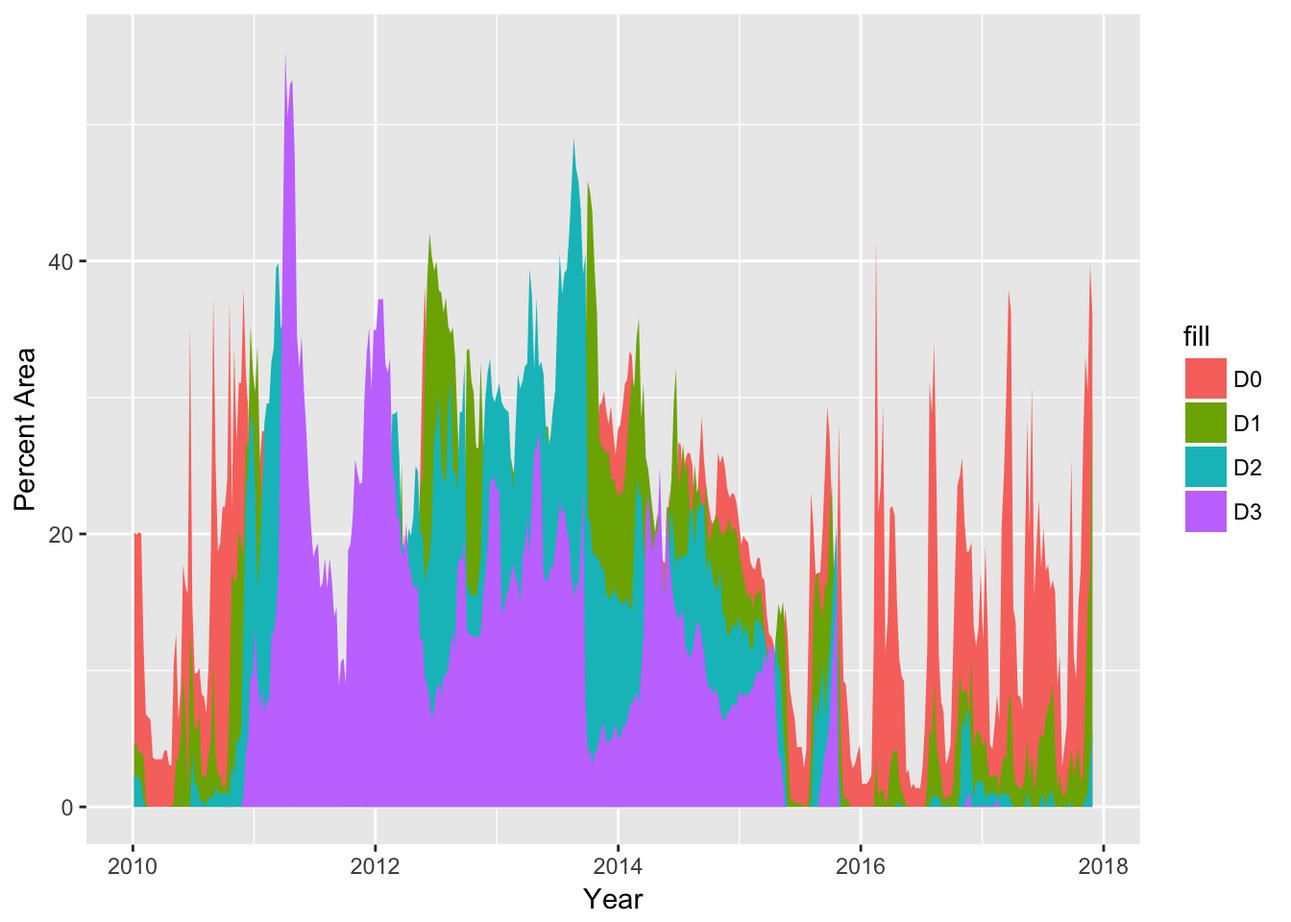
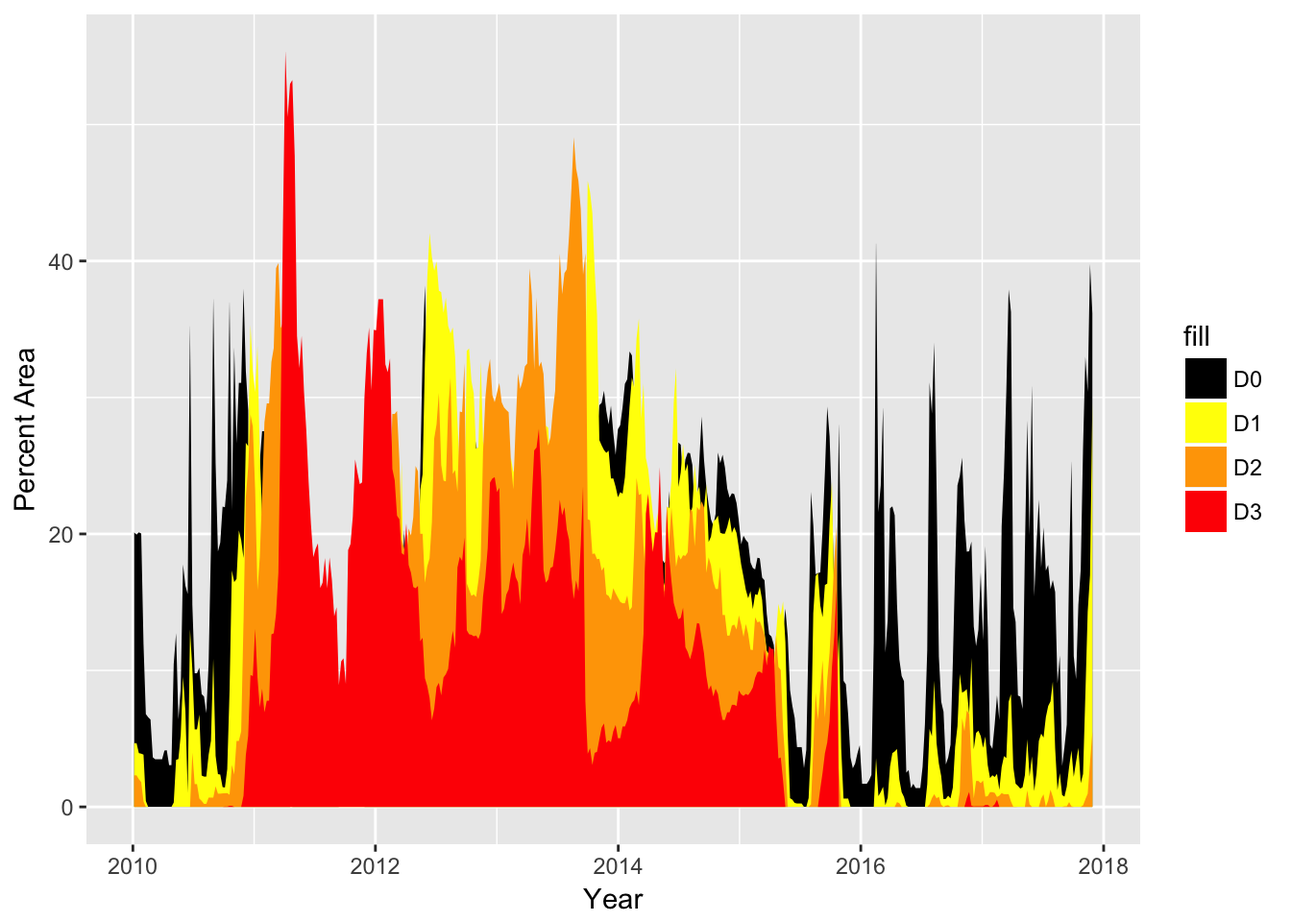
V2.0

Changed region(s): [[0.0938, 0.0938, 0.8438, 0.875], [0.9062, 0.375, 0.9688, 0.5938]]

diff --git a/docs/index.html b/docs/index.html
@@ -312,9 +312,10 @@ div.tocify {
 
 <div id="introduction" class="section level1">
 <h1>Introduction</h1>
-<p>Texas is no stranger to drought: the state has faced several droughts in recent decades, including the most recent and most severe drought that began in 2011.Texas has faced increasing demand for water to meet the needs of its rapidly growing population. Moreover, climate change has led to Texas experiencing an increase in drought events since 2011, which has intensified the need for an effect solution for state’s water situation. (Waterdatafortexas.org, 2017)</p>
-<p>Texas is the second-largest state in the United States and the total area is 268,596 sq. miles (Texasalmanac.com, 2017) so that it is difficult to conceptualize the degree of drought without a visual representation. In particular, spatial and temporal visualization can improve our knowledge on the intensity of the drought’s implication on the area throughout Texas. For visualization, the manner of the exploratory focus should be clearly investigated, where factors causing drought range from “Temperature” to “Precipitation” will be analyzed.</p>
-<p>Analysis on the relationships between factors of drought, and the spread of the drought area, will be investigated.</p>
+<p><strong>Texas is no stranger to drought.</strong> (Waterdatafortexas.org, 2017)</p>
+<p>Texas has experienced several droughts in recent decade, including the most recent and most severe drought that began in 2011.Texas has faced increasing demand for water to meet the needs of its rapidly growing population. (Twdb.texas.gov, 2017) Moreover, climate change has led to Texas experiencing an increase in drought events since 2011, which has intensified the need for an effect solution for state’s water situation. (Epa.gov, 2017)</p>
+<p>Texas is the second-largest state in the United States and the total area is 268,596 sq. miles (Texasalmanac.com, 2017) so that it is difficult to conceptualize the degree of drought without a visual representation. Particularly, spatial and temporal visualization can improve our knowledge on the intensity of the drought’s implication on the area throughout Texas. Hence, the first task for this project is to demonstrate the severity and distribution of drought by visualize U.S. Drought Monitor data.</p>
+<p>In addition, there are two main factors that contribute to dry phenomenon directly, which are temperature and precipitation.(Geochange.er.usgs.gov, 2017) But, which factor did more impact on drought? Simple analysis on the relationships between factors of drought, and the spread of the drought area, will be investigated by visualization and comparision in order to find that factor. <br></p>
 </div>
 <div id="packages-data-and-preprocessing" class="section level1 tabset tabset-fade">
 <h1>Packages, data and preprocessing</h1>
@@ -350,9 +351,16 @@ knitr::opts_chunk$set(cache=TRUE)</code></pre>
 <ol start="2" style="list-style-type: decimal">
 <li>Drought severity classification data</li>
 </ol>
-<p>Downloaded from <a href="http://droughtmonitor.unl.edu" title="United States Drought Monitor">The National Drought Mitigation Center</a>. It is a weekly map that the data is calculated based on measurements of climatic, hydrologic and soil conditions as well as reported impacts and observations from contributors around the country.(USDM, 2017)</p>
+<p>Downloaded from <a href="http://droughtmonitor.unl.edu" title="United States Drought Monitor">The National Drought Mitigation Center</a>. This data updated weekly based on measuring result of meteorological, hydrologic and soil conditions, besides observations and influences reported by donors across the country. (USDM, 2017)</p>
 <p>Permission: <em>The U.S. Drought Monitor is jointly produced by the National Drought Mitigation Center at the University of Nebraska-Lincoln, the United States Department of Agriculture, and the National Oceanic and Atmospheric Administration. Map courtesy of NDMC-UNL</em>.</p>
-<p>Data ranged from January 5 2010 to November 28 2017, including dates and drought classification results. The classification system and its meaning are shown as below. <img src="img/classification.png" alt="optional caption text" /></p>
+<p>These data include dates and drought classification results. The classification system and its meaning are shown as below.</p>
+<div style="width:500px; height=400px">
+<div class="figure">
+<img src="img/classification.png" alt="Drought classification system" />
+<p class="caption">Drought classification system</p>
+</div>
+</div>
+<p>In this project, the used data ranged from January 5 2010 to November 28 2017. According to resource type, they are loaded by read.csv function.</p>
 <pre class="r"><code>#  us monitor data loading
 tx_7y &lt;- read.csv(&#39;data/tx_7y.csv&#39;)
 tx_7y_1 &lt;- read.csv(&#39;data/tx_7y.csv&#39;)
@@ -362,7 +370,7 @@ tx_1031 &lt;- read.csv(&#39;data/tx_1031.csv&#39;)
 datatable(data=tx_7y_1[,c(-2,-3,-9,-10,-11)],style = &#39;default&#39;,options = list(pageLength = 5,autoWidth = TRUE))</code></pre>
 <div id="htmlwidget-2606b4dd5916098ae6f5" style="width:100%;height:auto;" class="datatables html-widget"></div>
 <script type="application/json" data-for="htmlwidget-2606b4dd5916098ae6f5">{"x":{"filter":"none","data":[["1","2","3","4","5","6","7","8","9","10","11","12","13","14","15","16","17","18","19","20","21","22","23","24","25","26","27","28","29","30","31","32","33","34","35","36","37","38","39","40","41","42","43","44","45","46","47","48","49","50","51","52","53","54","55","56","57","58","59","60","61","62","63","64","65","66","67","68","69","70","71","72","73","74","75","76","77","78","79","80","81","82","83","84","85","86","87","88","89","90","91","92","93","94","95","96","97","98","99","100","101","102","103","104","105","106","107","108","109","110","111","112","113","114","115","116","117","118","119","120","121","122","123","124","125","126","127","128","129","130","131","132","133","134","135","136","137","138","139","140","141","142","143","144","145","146","147","148","149","150","151","152","153","154","155","156","157","158","159","160","161","162","163","164","165","166","167","168","169","170","171","172","173","174","175","176","177","178","179","180","181","182","183","184","185","186","187","188","189","190","191","192","193","194","195","196","197","198","199","200","201","202","203","204","205","206","207","208","209","210","211","212","213","214","215","216","217","218","219","220","221","222","223","224","225","226","227","228","229","230","231","232","233","234","235","236","237","238","239","240","241","242","243","244","245","246","247","248","249","250","251","252","253","254","255","256","257","258","259","260","261","262","263","264","265","266","267","268","269","270","271","272","273","274","275","276","277","278","279","280","281","282","283","284","285","286","287","288","289","290","291","292","293","294","295","296","297","298","299","300","301","302","303","304","305","306","307","308","309","310","311","312","313","314","315","316","317","318","319","320","321","322","323","324","325","326","327","328","329","330","331","332","333","334","335","336","337","338","339","340","341","342","343","344","345","346","347","348","349","350","351","352","353","354","355","356","357","358","359","360","361","362","363","364","365","366","367","368","369","370","371","372","373","374","375","376","377","378","379","380","381","382","383","384","385","386","387","388","389","390","391","392","393","394","395","396","397","398","399","400","401","402","403","404","405","406","407","408","409","410","411","412","413","414"],[20171128,20171121,20171114,20171107,20171031,20171024,20171017,20171010,20171003,20170926,20170919,20170912,20170905,20170829,20170822,20170815,20170808,20170801,20170725,20170718,20170711,20170704,20170627,20170620,20170613,20170606,20170530,20170523,20170516,20170509,20170502,20170425,20170418,20170411,20170404,20170328,20170321,20170314,20170307,20170228,20170221,20170214,20170207,20170131,20170124,20170117,20170110,20170103,20161227,20161220,20161213,20161206,20161129,20161122,20161115,20161108,20161101,20161025,20161018,20161011,20161004,20160927,20160920,20160913,20160906,20160830,20160823,20160816,20160809,20160802,20160726,20160719,20160712,20160705,20160628,20160621,20160614,20160607,20160531,20160524,20160517,20160510,20160503,20160426,20160419,20160412,20160405,20160329,20160322,20160315,20160308,20160301,20160223,20160216,20160209,20160202,20160126,20160119,20160112,20160105,20151229,20151222,20151215,20151208,20151201,20151124,20151117,20151110,20151103,20151027,20151020,20151013,20151006,20150929,20150922,20150915,20150908,20150901,20150825,20150818,20150811,20150804,20150728,20150721,20150714,20150707,20150630,20150623,20150616,20150609,20150602,20150526,20150519,20150512,20150505,20150428,20150421,20150414,20150407,20150331,20150324,20150317,20150310,20150303,20150224,20150217,20150210,20150203,20150127,20150120,20150113,20150106,20141230,20141223,20141216,20141209,20141202,20141125,20141118,20141111,20141104,20141028,20141021,20141014,20141007,20140930,20140923,20140916,20140909,20140902,20140826,20140819,20140812,20140805,20140729,20140722,20140715,20140708,20140701,20140624,20140617,20140610,20140603,20140527,20140520,20140513,20140506,20140429,20140422,20140415,20140408,20140401,20140325,20140318,20140311,20140304,20140225,20140218,20140211,20140204,20140128,20140121,20140114,20140107,20131231,20131224,20131217,20131210,20131203,20131126,20131119,20131112,20131105,20131029,20131022,20131015,20131008,20131001,20130924,20130917,20130910,20130903,20130827,20130820,20130813,20130806,20130730,20130723,20130716,20130709,20130702,20130625,20130618,20130611,20130604,20130528,20130521,20130514,20130507,20130430,20130423,20130416,20130409,20130402,20130326,20130319,20130312,20130305,20130226,20130219,20130212,20130205,20130129,20130122,20130115,20130108,20130101,20121225,20121218,20121211,20121204,20121127,20121120,20121113,20121106,20121030,20121023,20121016,20121009,20121002,20120925,20120918,20120911,20120904,20120828,20120821,20120814,20120807,20120731,20120724,20120717,20120710,20120703,20120626,20120619,20120612,20120605,20120529,20120522,20120515,20120508,20120501,20120424,20120417,20120410,20120403,20120327,20120320,20120313,20120306,20120228,20120221,20120214,20120207,20120131,20120124,20120117,20120110,20120103,20111227,20111220,20111213,20111206,20111129,20111122,20111115,20111108,20111101,20111025,20111018,20111011,20111004,20110927,20110920,20110913,20110906,20110830,20110823,20110816,20110809,20110802,20110726,20110719,20110712,20110705,20110628,20110621,20110614,20110607,20110531,20110524,20110517,20110510,20110503,20110426,20110419,20110412,20110405,20110329,20110322,20110315,20110308,20110301,20110222,20110215,20110208,20110201,20110125,20110118,20110111,20110104,20101228,20101221,20101214,20101207,20101130,20101123,20101116,20101109,20101102,20101026,20101019,20101012,20101005,20100928,20100921,20100914,20100907,20100831,20100824,20100817,20100810,20100803,20100727,20100720,20100713,20100706,20100629,20100622,20100615,20100608,20100601,20100525,20100518,20100511,20100504,20100427,20100420,20100413,20100406,20100330,20100323,20100316,20100309,20100302,20100223,20100216,20100209,20100202,20100126,20100119,20100112,20100105,null],[36.15,39.75,30.4,32.97,26.3,17.37,14.85,9.35,11.04,25.29,17.46,6.03,4.36,2.99,11.09,9.05,15.74,16.62,15.96,17.73,17.31,20.48,17.54,22.5,19.31,15.41,30.8,19.89,28.27,18.82,7.18,8.08,8.16,13.55,14.59,36.27,37.91,30.36,24.43,20.57,6.36,8.17,6.04,4.25,4.57,13.2,19.1,12.2,17.18,12.98,11.78,13.23,19.44,18.73,18.7,20.98,25.58,24.25,23.56,17.53,10.55,4.55,3.62,3.11,6.98,7.71,11.01,23.45,34,28.82,31.08,11.46,6.03,2.93,1.38,1.38,1.38,1.69,1.38,2.7,2.51,9.21,9.59,10.81,14.83,21.37,22.02,21.88,13.67,11.3,29.21,23.56,21.59,41.27,11.99,2.34,1.95,1.69,1.69,1.69,4.52,3.93,3.18,2.83,3.62,6.74,8.98,9.24,17.25,27.99,14.97,16.5,21.87,27.17,29.33,24.52,20.3,17.18,17.13,17.05,20.65,23.06,12.9,4.18,2.84,4.38,4.38,4.38,6.52,7.4,8.55,12.5,14.52,12.83,10.78,10.4,9.96,11.87,12.48,12.65,14.14,16.61,16.8,18.21,18.26,17.4,17.51,17.91,19.36,19.56,19.87,19.24,20.94,22.26,22.92,22.98,22.66,23.32,24.88,25.8,25.19,25.96,21.47,20.62,21.07,22.14,23.45,25.46,28.6,25.36,21.92,21.54,25.06,25.92,25.95,25.46,23.91,26.54,26.7,19.6,18.6,19.56,23.14,18.12,17.87,18.13,11.54,15.65,17.7,16.69,18.93,17.8,17.84,20.56,21.76,23.9,24.74,29.84,33.08,33.37,31.33,31,29.28,27.97,27.68,25.79,27.4,29.39,28.03,29.02,30.49,29.61,29.43,27.33,24.81,25.65,22.93,22.43,13.78,8.4,8.75,8.77,9.3,8.26,9.28,9.9,9.48,6.85,5.32,7.62,11.64,11.01,10.42,10.39,7.96,8.24,7.46,6.61,6.42,6.56,6.33,7.41,10.12,10.39,11.34,11.34,11.68,12.56,13.6,14.41,13.54,13.23,13.46,16.51,16.51,11.92,9.96,7.15,7.15,6.37,11.64,13.32,15.51,19.87,24.65,26.78,24.34,20.45,18.12,17.34,12.13,12.6,16.23,17.29,17.3,14.65,10.2,13.4,16.96,17.29,16.66,18.29,20.59,22.42,22.51,21.97,31.97,38.19,33.08,24.7,16.27,16.32,18.61,17.99,17.99,18.06,20.25,8.61,8.51,7.38,8.74,8.74,5.99,5.02,4.41,4.4,4.4,3.97,2.15,2.15,2.13,0.17,0.17,0,0,0,0,0,0,0,0,0,0,0,0,0.07,0.08,0.07,0.21,0.45,0.45,0.15,1.04,2.57,1.86,1.61,0.96,1.5,1.5,1.68,1.93,2.99,2.22,1.14,0,0,2.06,2.01,5.13,6.25,13.01,13.7,22.1,25.18,29.37,27.13,27.53,27.53,25.3,20.71,19.77,22.68,12.71,29.1,31.91,37.94,31.07,31.07,26.63,33.62,21.71,36.97,23.94,21.96,22,19.37,18.71,25.16,37.2,18.97,10.52,6.87,8.09,8.26,10.2,9.79,9.79,14.79,35.22,15.6,16.21,17.75,8.64,6.41,12.72,10.49,3.06,3.06,4.15,4.13,3.49,3.49,3.49,3.49,3.63,6.4,6.57,6.8,11.91,20.03,20.12,19.95,20.11,null],[29.61,16.98,14.3,8.24,2.41,1.74,4.32,3.31,2.2,4.13,2.92,1.48,0.75,0.87,2.47,1.23,4.29,9.17,7.73,7.39,6.57,5.08,5.37,4.84,2.47,1.16,3.7,2.22,4.95,2.33,1.44,1.34,1.54,1.7,2.91,8.26,7.7,3.58,3.72,2.92,1.25,2.42,2.19,2.32,2.11,3.07,5.15,4.33,5.19,5.58,5.42,4.22,10.92,6.82,8.63,8.47,8.37,9.74,5.91,4.4,1.41,0.62,0.82,0.59,0.57,2.26,3.17,4.68,9.24,5.18,5.71,1.66,0,0,0,0,0,0,0,0,0.09,0.73,1.08,2.01,4.24,4.06,3.94,2.96,0.68,0.12,1.47,1.09,0.79,3.57,0,0,0,0,0,0,0,0,0,0,0,0.61,0.61,0.61,4.27,12.82,8.4,15.14,23.77,20.77,16.36,16.26,13.9,14.77,17.15,16.91,14.21,4.42,0.65,0,0,0.25,0.25,0.25,0.29,0.53,0.64,5.4,12.08,15.06,14.04,14.88,12.63,10.6,10.98,11.17,11.44,12.82,15.16,16.13,15.53,15.58,14.49,15.81,15.29,15.9,16.85,17.75,18.95,20.07,20.5,20.07,21.23,20.52,20.02,20.02,20.09,21.34,21.06,20.92,19.8,19.41,23.63,21.83,21.36,23.47,23.03,25.05,21.97,21.36,25.14,24.6,26.56,24.51,23.44,32.13,29.65,23.99,21.9,22,16.21,16.95,18.22,21.56,20.12,21.53,23.12,24.75,25.58,31.02,28.41,35.78,34.33,30.72,31.46,29.34,26.74,24.15,22.95,23.06,22.69,23.46,24.07,24.06,26.1,25.94,26.15,26.49,26.88,36.1,39.27,43.52,45.06,45.87,31.06,22.24,21.52,22.46,21.76,22.05,21.98,20.69,22.34,25.12,23.38,16.58,18.46,23.42,26.34,24.73,27.79,27.93,22.61,21.85,19.31,18.26,22.18,19.01,20.09,22.77,25.24,25.5,22.76,20.67,25.26,24.52,25.58,24.62,24.95,23.52,23.52,17.93,21.61,24.18,24.18,22.68,22.93,26.05,26.75,32.6,26.35,26.24,30.3,31.21,33.59,33.42,21.32,24.3,24.4,28.2,32.94,35.13,34.69,35.25,37.32,36.19,37.72,37.82,39.97,39.29,40.29,42.04,38.72,32.61,24.36,23.24,17.77,16.89,16.14,17.12,13.06,12.31,11.71,25.19,17.4,15.58,17.73,17.73,12.63,12.59,9.88,12.48,12.48,12.83,13.02,13.02,13.05,9.62,9.5,5.77,2.56,2.43,1.92,1.82,1.66,1.4,0.85,0.84,0.84,0.97,0.83,0.92,0.92,0.91,1.36,1.5,0.81,2.97,3.17,1.65,1.34,1.19,1.19,1.76,2.48,4.17,3.81,4.61,3.9,4.87,5.03,8.48,11.51,11.48,16.33,27.99,26.77,24.35,26.57,24.5,20.76,19.8,17.89,21.44,25.8,33.76,30.38,31.98,35.28,26.43,26.68,18.23,19.55,20.26,16.71,16.47,17.32,8.52,2.76,1.42,1.45,2.37,2.4,3.74,10.83,4.84,3.82,2.22,2.22,2.3,6.76,5.68,5.68,10.05,13,1.02,7.04,9.54,5.26,3.51,3.44,0.32,0,0,0,0,0,0,0,0,0,0,0,0.43,3.83,3.9,3.94,4.67,4.67,null],[5.5,3.25,0.97,0.56,0.11,0,0,0,0,0.04,0.35,0.04,0.04,0,0,0,0,0.73,1.26,0.46,0,0.92,0.61,0,0,0,0,0.19,1.2,0,0,0,0,0.01,0.01,0.4,0.93,0.93,0.93,1.01,0.82,0.73,1.03,1.08,1.08,0.79,0.75,1.93,1.74,1.9,1.9,0.62,3.19,6.82,7.06,5.55,6.5,1.1,0,0,0,0,0.12,0.09,0,0.16,0.74,0.63,0.93,0.64,0.18,0,0,0,0,0,0,0,0,0,0,0,0,0.27,0.35,0,0,0,0,0,0,0,0,0,0,0,0,0,0,0,0,0,0,0,0,0,0,0,0,2.85,20.48,17.99,14.49,11.29,9.33,6.54,10.73,8.67,6.37,8.37,4.28,0.18,0,0,0,0,0,0,0,0,0,0,3.29,5.76,10.03,10.26,12.58,9.74,9.93,10.34,11.25,12.63,13.14,13.59,13.52,13.89,11.49,11.52,12.68,13.4,12.46,13.35,14.03,12.99,13.36,13.27,12.55,12.55,14.06,14.06,17.58,15.96,15.97,16.53,17.71,18.28,17.15,21.95,22.39,21.73,21.98,19.08,21.65,21.85,18.66,18.39,18.44,18.12,18.48,17.59,19.8,21.94,19.3,16.35,15.76,16.22,18.96,15.05,15.9,15.16,12.86,14.7,16.87,19.12,22.94,22.86,24.1,18.94,14.64,14.4,15.49,14.92,14.92,15.02,15.33,15.65,16.02,15.13,15.46,15.57,17.57,17.31,18.18,18.15,18.57,18.53,21,21.08,40.53,38.99,43.81,45.89,46.79,49.07,45.28,41.89,39.39,39.11,37.56,40.52,36.04,30.48,29.05,27.09,26.47,27.89,31.72,32.62,32.24,37.31,31.99,37.48,39.44,32.49,32.28,31.22,30.63,31.76,27.83,23.26,25.22,28.92,29.08,29.27,29.65,31.06,30.35,29.65,30.18,32.82,31.87,29.97,26.03,18.07,16.57,15.38,15.57,15.46,15.92,16.38,32.51,28.92,28.97,23.07,24.68,24.4,31.43,29.1,23.85,23.91,25.06,30.32,28.02,27,20.85,18.21,17.62,16.42,20.01,20.01,24.59,24.98,21.22,19.89,20.4,18.26,18.99,19.59,25.48,29.01,28.79,28.79,23.18,22.5,20.99,20.13,20.13,20.22,17.48,17.48,15.45,13.79,13.77,11.56,10.68,8.8,7.77,7.76,7.47,6.72,7.19,2.17,2.52,2.94,2.42,3.33,3.97,4.59,5.58,3.71,6.95,5.23,4.59,4.82,4.17,3.9,3.21,6.2,8.63,10.81,13.48,12.39,11.83,20.25,24.55,23.56,25.86,26.36,35.47,35.08,39.85,39.48,33.62,32.61,29.56,29.57,28.18,22.9,18.32,15.88,23.25,27.87,28.74,24.89,22.68,13.47,5.54,4.83,4.83,2.37,3.07,0.89,1.01,1,0.99,0.97,0.97,1.51,0.68,0.68,0.68,0.22,0.22,0.44,0.61,1.67,1.67,3.96,0,0,0,0,0,0,0,0,0,0,0,0,0,0,0,0,0,0,0,0,0.4,1.82,2.03,2.31,2.31,null],[0,0,0,0,0,0,0,0,0,0,0,0,0,0,0,0,0,0,0,0,0,0,0,0,0,0,0,0,0,0,0,0,0,0,0,0,0,0,0,0,0,0.53,0.19,0.01,0.01,0.15,0.14,0.04,0.04,0.04,0.04,0.03,0.08,1.09,0.63,0,0,0,0,0,0,0,0,0,0,0,0,0,0,0,0,0,0,0,0,0,0,0,0,0,0,0,0,0,0,0,0,0,0,0,0,0,0,0,0,0,0,0,0,0,0,0,0,0,0,0,0,0,0,0,15.87,12.47,10.17,6.27,4.72,3.92,2.5,1.32,0,0,0,0,0,0,0,0,0,0,0,0,0,0,0,1.93,3.62,3.55,6.8,11.57,11.58,11.79,10.35,11.51,9.78,9.92,9.88,9.46,8.75,8.43,8.19,8.28,8.13,8.25,8.53,7.39,7.48,7.48,6.93,6.93,6.37,6.37,7.18,8.27,8.66,8.09,8.91,8.57,9.6,11.25,12.33,13.42,13.47,12.4,11.43,10.82,11.35,11.7,14.59,13.85,13.75,14.33,14.94,16.55,18.34,22.05,15.3,19.15,24.89,20.11,20.12,18.68,20.52,22.94,21.49,12.66,9.96,7.45,8.52,7.82,7.62,7.24,6.35,5.89,5.89,5.03,5.03,6,5.54,4.74,4.88,4.7,6.11,5.82,4.94,4.03,3.96,3.07,4.3,3.89,7.74,23.43,19.17,15.8,16.6,15.22,16.81,19.56,20.32,21.96,21.37,22.5,20.43,18.83,17.6,17.51,16.65,16.43,17.36,24.04,27.69,26.33,26.12,22.62,18.34,21.14,19.2,18.43,14.84,16.45,16.85,17.91,17.04,15.93,15.55,14.51,14.13,23.38,23.07,24.16,24.06,23.77,18.95,16.87,15.4,12.79,12.3,12.56,12.5,12.61,12.65,12.94,19.72,18.02,18.33,17.55,11.66,12.9,11.77,10.11,9.72,9.48,8.17,9.09,8.77,7.2,6.34,7.99,8.86,9.43,12.39,12.14,16.19,16.02,16.11,17.16,17.73,20.76,18.46,18.59,21.08,21.34,23.93,24.76,32.86,31.85,32.43,37.2,37.2,37.2,34.92,34.96,30.51,35.13,33.26,29.99,23.78,23.65,24.49,25.46,21.26,19.26,18.83,9,10.89,10.66,8.92,14.63,13.96,16.63,18.27,16.01,18.23,16.43,16.04,19.31,18.91,18.3,20.7,23.79,27.58,30.44,34.51,32.15,34.51,47.77,53.26,52.97,50.54,55.33,43.07,28.98,17.13,14.16,12.72,12.64,7.78,7.78,6.93,8.66,7.3,9.48,13.04,9.59,9.66,5.2,3.8,0.81,0,0,0,0,0.08,0.08,0.02,0.02,0,0,0,0,0,0,0,0,0,0,0,0,0,0,0,0,0,0,0,0,0,0,0,0,0,0,0,0,0,0,0,0,0,0,0,0,0,0,0,null],[0,0,0,0,0,0,0,0,0,0,0,0,0,0,0,0,0,0,0,0,0,0,0,0,0,0,0,0,0,0,0,0,0,0,0,0,0,0,0,0,0,0,0,0,0,0,0,0,0,0,0,0,0,0,0,0,0,0,0,0,0,0,0,0,0,0,0,0,0,0,0,0,0,0,0,0,0,0,0,0,0,0,0,0,0,0,0,0,0,0,0,0,0,0,0,0,0,0,0,0,0,0,0,0,0,0,0,0,0,0,5.52,1.42,0,0,0,0,0,0,0,0,0,0,0,0,0,0,0,0,0,0,0,0,0,0,1.86,2.02,2.55,3.34,3.87,3.31,3.31,2.97,2.97,3.37,4.46,4.46,4.46,2.82,3.05,3.05,2.9,2.47,3.17,2.97,2.57,2.57,2.57,2.57,3.45,3.45,3.62,3.62,2.88,2.88,2.88,2.69,1.79,1.79,1.54,2.76,2.76,2.76,2.62,2.85,2.94,3.28,3.77,4.51,4.76,4.95,6.56,6.68,8.66,10.76,25.05,20.73,21.28,17.75,12.54,10.31,7.08,4.42,3.48,1.41,1.49,1.07,0.93,0.71,0.71,0.71,0.79,0.79,0.79,0.79,0.79,0.79,1.17,0.96,0.96,0.96,0.78,0.43,0.49,0.23,0.23,0.12,0.12,0.12,0.28,1.65,2.62,2.94,2.74,2.58,3.84,6.24,5.65,6.35,12.07,12.2,12.2,11.27,11.83,14.85,16.47,16.02,18.02,12.05,12.88,10.09,11.93,12.19,11.56,11.81,10.54,9.88,8.57,7.41,5.17,7.89,7.79,7.79,6.57,6.72,6.72,11.41,11.96,10.32,9.89,8.45,8.45,7.63,7.66,6.12,4.68,3.67,3.2,3.2,3.23,3.23,5.18,4.88,4.8,3.57,3.21,1.18,0.82,0.75,0.75,0.78,0,0,0,0,0,0.15,0.38,0.73,1.15,1.4,7.38,8.7,9.31,9.64,13.42,14.05,17.92,17.92,20.54,20.64,14.75,13.93,20.41,23.12,27.36,25.27,25.27,25.27,32.4,32.36,38.84,41.29,43.29,52.67,62.97,65.11,65.82,64.95,69.61,72.61,73.13,87.99,85.75,85.43,87.83,81.06,81.08,77.8,74.5,78.26,73.49,75.23,75.15,71.66,71.3,72.32,70.61,64.78,57.83,50.65,43.97,47.87,47.55,25.96,17.16,14.99,10.03,4.81,0,0,0,0,0,0,0,0,0,0,0,0,0,0,0,0,0,0,0,0,0,0,0,0,0,0,0,0,0,0,0,0,0,0,0,0,0,0,0,0,0,0,0,0,0,0,0,0,0,0,0,0,0,0,0,0,0,0,0,0,0,0,0,0,0,null]],"container":"<table class=\"display\">\n  <thead>\n    <tr>\n      <th> <\/th>\n      <th>ReleaseDate<\/th>\n      <th>D0<\/th>\n      <th>D1<\/th>\n      <th>D2<\/th>\n      <th>D3<\/th>\n      <th>D4<\/th>\n    <\/tr>\n  <\/thead>\n<\/table>","options":{"pageLength":5,"autoWidth":true,"columnDefs":[{"className":"dt-right","targets":[1,2,3,4,5,6]},{"orderable":false,"targets":0}],"order":[],"orderClasses":false,"lengthMenu":[5,10,25,50,100]},"selection":{"mode":"multiple","selected":null,"target":"row"}},"evals":[],"jsHooks":[]}</script>
-<p>Unluckily, the drought index for each county by state can be downloaded just in single day, therefore, I chose the data released in October 31 as sample.</p>
+<p>Unluckily, the drought index for each county by state can be downloaded just in single day, therefore, I chose the data released in October 31 as visulatiztion sample .</p>
 <ol start="3" style="list-style-type: decimal">
 <li>Time-series data</li>
 </ol>
@@ -413,14 +421,16 @@ D1_loglat &lt;- spTransform(D1, CRS(&quot;+proj=longlat +datum=WGS84&quot;))
 D2 &lt;- shp[shp@data$D2!=0,]
 D2_loglat &lt;- spTransform(D2, CRS(&quot;+proj=longlat +datum=WGS84&quot;))</code></pre>
 <ul>
-<li><p>Time-series data transformation</p>
-<ul>
-<li>Fahreheit to celsius <em>weathermetrics package</em></li>
-</ul></li>
+<li>Time-series data transformation</li>
 </ul>
+<ol style="list-style-type: decimal">
+<li>Fahreheit to celsius with <em>weathermetrics package</em></li>
+</ol>
 <pre class="r"><code># Temperature format transfromation
 total$mean.temp &lt;- fahrenheit.to.celsius(total$mean.temp,2)</code></pre>
-<pre><code>+ Convert table into xts format</code></pre>
+<ol start="2" style="list-style-type: decimal">
+<li>Convert table into XTS format with <em>zoo package</em></li>
+</ol>
 <pre class="r"><code>total[,c(&quot;temp_10&quot;)] &lt;- total$mean.temp/10
 total$X &lt;- as.Date(as.yearmon(total$X))
 time &lt;- xts(total[, c(2,3)], order.by=total$X)
@@ -436,7 +446,7 @@ total$precip &lt;- total$precip*2.54</code></pre>
 <h3>Drought Percent area in Texas from 2010 to 2017</h3>
 <p>By watching the chart of time-series U.S. Drought Monitor data for 7 years, we can find that the area of drought percent area was large since 2011 to 2016, however, the drought situation has been relieving during 2017.</p>
 <pre class="r"><code># chart of one-year drought percent area
-ggplot(tx_7y, aes(x=ReleaseDate,D0,fill=&quot;D0&quot;),color=&#39;black&#39;) + geom_area() + geom_area(aes(x = ReleaseDate,D1,fill=&quot;D1&quot;)) + geom_area(aes(x = ReleaseDate, D2,fill=&quot;D2&quot;)) + geom_area(aes(x = ReleaseDate, D3, fill=&quot;D3&quot;))  + xlab(&quot;Year&quot;) + ylab(&quot;Percent Area&quot;) </code></pre>
+ggplot(tx_7y, aes(x=ReleaseDate,D0,fill=&quot;D0&quot;),color=&#39;black&#39;) + geom_area() + geom_area(aes(x = ReleaseDate,D1,fill=&quot;D1&quot;)) + geom_area(aes(x = ReleaseDate, D2,fill=&quot;D2&quot;)) + geom_area(aes(x = ReleaseDate, D3, fill=&quot;D3&quot;))  + xlab(&quot;Year&quot;) + ylab(&quot;Percent Area&quot;) +scale_fill_manual(values=c(&quot;black&quot;,&quot;yellow&quot;,&quot;orange&quot;,&quot;red&quot;))</code></pre>
 <p><img src="index_files/figure-html/one-year%20percent%20area-1.png" width="672" /></p>
 </div>
 <div id="sptial-distribution-of-drought-in-texas-in-october-31-2017" class="section level3">
@@ -459,7 +469,7 @@ ggplot2 &lt;- g2+ theme(legend.position = &quot;right&quot;)+ theme(axis.ticks =
 
 # build the three graph in one page
 grid.arrange(ggplot0,ggplot1,ggplot2,nrow=1)  </code></pre>
-<p><img src="index_files/figure-html/visualization%20the%20drought%20area%20with%20different%20drought%20degree-1.png" width="672" /></p>
+<p><img src="index_files/figure-html/visualization%20the%20drought%20area%20with%20different%20drought%20degree-1.png" width="400" height="400" /></p>
 <p>Observing the visualization of drought distribution in October 31, most of counties were in abnormally dry. Four counties in northern Texas (Cottle, Foard, King and Knox), several counties in eastern Texas, and some counties in southern Texas were in moderate dry situation. Jim Hogg county suffered in severe drought in this day. Specific value can be observed by hovering mouse over the relevant cell in the interactive map.</p>
 <pre class="r"><code># Use leaflet to visualize the drought distribution of each county 
 leaflet(shp@bbox) %&gt;%
@@ -537,10 +547,13 @@ dygraph(data = time,
 </div>
 <div id="references" class="section level1">
 <h1>References</h1>
-<p>Waterdatafortexas.org. (2017). Water Data For Texas. [online] Available at: <a href="https://waterdatafortexas.org/drought" class="uri">https://waterdatafortexas.org/drought</a> [Accessed 7 Dec. 2017].</p>
-<p>Texasalmanac.com. (2017). Facts | Texas Almanac. [online] Available at: <a href="http://texasalmanac.com/topics/facts-profile" class="uri">http://texasalmanac.com/topics/facts-profile</a> [Accessed 7 Dec. 2017].</p>
-<p>USDM, A. (2017). Background. [online] Droughtmonitor.unl.edu. Available at: <a href="http://droughtmonitor.unl.edu/AboutUSDM/Background.aspx" class="uri">http://droughtmonitor.unl.edu/AboutUSDM/Background.aspx</a> [Accessed 7 Dec. 2017].</p>
-<p>(PDSI), P. (2017). Palmer Drought Severity Index (PDSI) | NCAR - Climate Data Guide. [online] Climatedataguide.ucar.edu. Available at: <a href="https://climatedataguide.ucar.edu/climate-data/palmer-drought-severity-index-pdsi" class="uri">https://climatedataguide.ucar.edu/climate-data/palmer-drought-severity-index-pdsi</a> [Accessed 7 Dec. 2017].</p>
+<p>Waterdatafortexas.org. (2017). Water Data For Texas. [online] Available at: <a href="https://waterdatafortexas.org/drought" class="uri">https://waterdatafortexas.org/drought</a></p>
+<p>Twdb.texas.gov. (2017). Population and Water Demand Projections | Texas Water Development Board. [online] Available at: <a href="https://www.twdb.texas.gov/waterplanning/data/projections/" class="uri">https://www.twdb.texas.gov/waterplanning/data/projections/</a></p>
+<p>Epa.gov. (2017). [online] Available at: <a href="https://www.epa.gov/sites/production/files/2016-09/documents/climate-change-tx.pdf" class="uri">https://www.epa.gov/sites/production/files/2016-09/documents/climate-change-tx.pdf</a></p>
+<p>Geochange.er.usgs.gov. (2017). Climate and Droughts. [online] Available at: <a href="https://geochange.er.usgs.gov/sw/changes/natural/drought/" class="uri">https://geochange.er.usgs.gov/sw/changes/natural/drought/</a></p>
+<p>Texasalmanac.com. (2017). Facts | Texas Almanac. [online] Available at: <a href="http://texasalmanac.com/topics/facts-profile" class="uri">http://texasalmanac.com/topics/facts-profile</a></p>
+<p>USDM, A. (2017). Background. [online] Droughtmonitor.unl.edu. Available at: <a href="http://droughtmonitor.unl.edu/AboutUSDM/Background.aspx" class="uri">http://droughtmonitor.unl.edu/AboutUSDM/Background.aspx</a></p>
+<p>(PDSI), P. (2017). Palmer Drought Severity Index (PDSI) | NCAR - Climate Data Guide. [online] Climatedataguide.ucar.edu. Available at: <a href="https://climatedataguide.ucar.edu/climate-data/palmer-drought-severity-index-pdsi" class="uri">https://climatedataguide.ucar.edu/climate-data/palmer-drought-severity-index-pdsi</a></p>
 </div>
 
 <!-- give the footer some space -->
